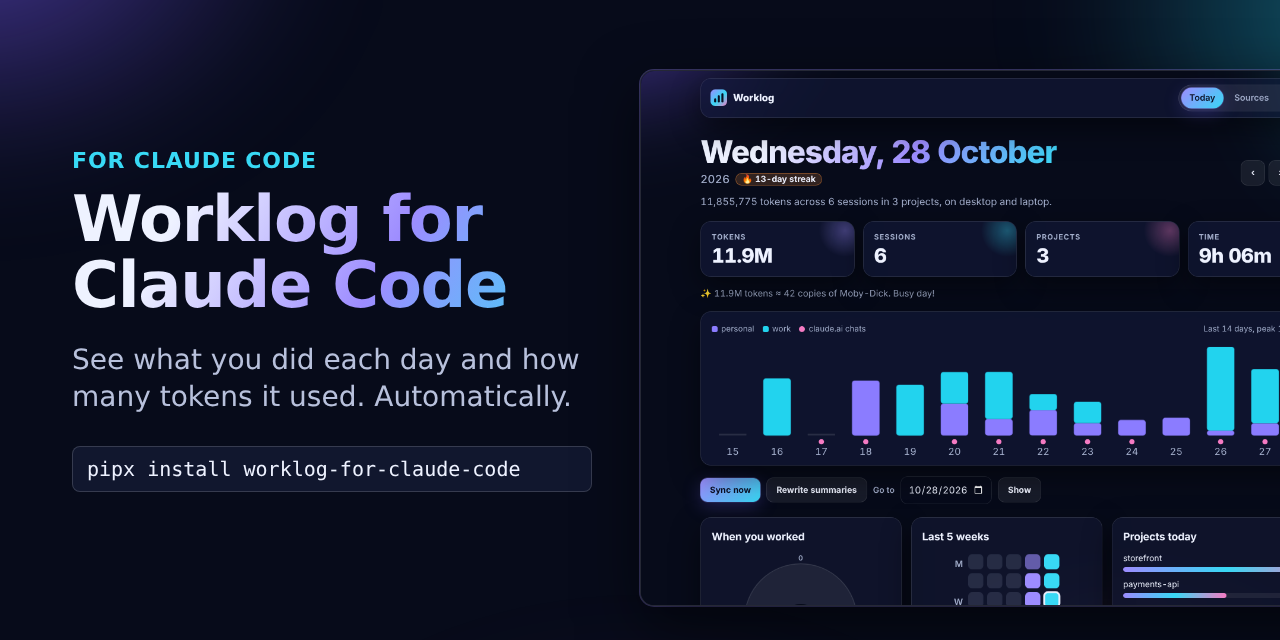
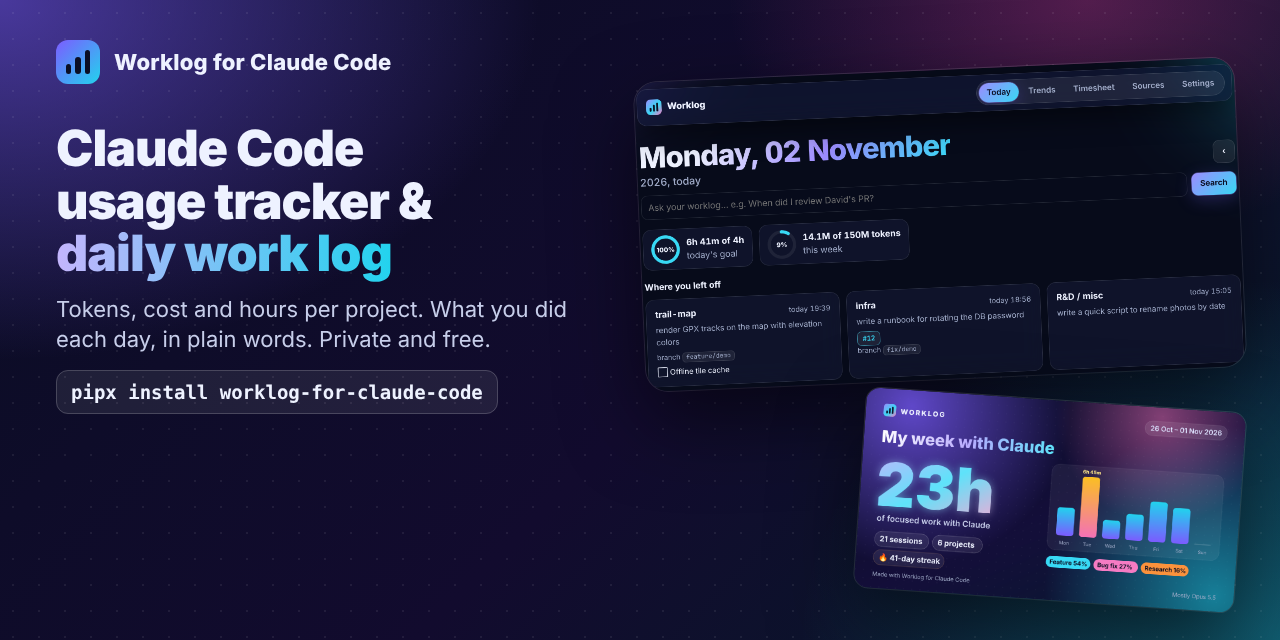
Website, search words, pinned actions and Scorecard
- site/: one-page website for GitHub Pages with title, description, Open Graph
  image, structured data (app + FAQ), sitemap and robots.txt; pages.yml
  publishes it with the screenshots from docs/images.
- README and PyPI summary say plainly what it is: a Claude Code usage tracker
  and daily work log with tokens, cost and hours per project.
- Pin every GitHub Action to a commit SHA (version in a comment).
- Add the OpenSSF Scorecard workflow, plus Scorecard and signed-release badges.
- New 1280x640 social preview image.

diff --git a/site/index.html b/site/index.html
@@ -1,0 +1,165 @@
+<!doctype html>
+<html lang="en">
+<head>
+<meta charset="utf-8">
+<meta name="viewport" content="width=device-width,initial-scale=1">
+<title>Worklog for Claude Code: usage tracker and daily work log</title>
+<meta name="description" content="Free, open-source Claude Code usage tracker: tokens, cost and hours per project, what you did each day in plain words, and a timesheet. Private by design.">
+<link rel="canonical" href="https://us-urvin.github.io/worklog-for-claude-code/">
+<meta name="robots" content="index,follow">
+<meta name="theme-color" content="#0A0D24">
+<link rel="icon" href="favicon.svg" type="image/svg+xml">
+<meta property="og:type" content="website">
+<meta property="og:site_name" content="Worklog for Claude Code">
+<meta property="og:title" content="Worklog for Claude Code: your Claude Code work, written down for you">
+<meta property="og:description" content="Free, open-source Claude Code usage tracker: tokens, cost and hours per project, daily summaries in plain words, a timesheet and trends. Runs on your computer.">
+<meta property="og:url" content="https://us-urvin.github.io/worklog-for-claude-code/">
+<meta property="og:image" content="https://us-urvin.github.io/worklog-for-claude-code/images/social-preview.png">
+<meta property="og:image:width" content="1280">
+<meta property="og:image:height" content="640">
+<meta property="og:image:alt" content="Worklog for Claude Code: a dashboard of today's Claude Code projects, tokens and hours">
+<meta name="twitter:card" content="summary_large_image">
+<meta name="twitter:title" content="Worklog for Claude Code">
+<meta name="twitter:description" content="Free Claude Code usage tracker and daily work log: tokens, cost and hours per project, in plain words.">
+<meta name="twitter:image" content="https://us-urvin.github.io/worklog-for-claude-code/images/social-preview.png">
+<script type="application/ld+json">
+{"@context":"https://schema.org","@graph":[
+{"@type":"SoftwareApplication","name":"Worklog for Claude Code","alternateName":"claude-worklog",
+ "applicationCategory":"DeveloperApplication","operatingSystem":"Linux, macOS, Windows",
+ "description":"Free, open-source Claude Code usage tracker and daily work log: tokens, cost and hours per project, plain-language summaries, a timesheet and trends, across Claude accounts and computers.",
+ "url":"https://us-urvin.github.io/worklog-for-claude-code/","downloadUrl":"https://pypi.org/project/worklog-for-claude-code/",
+ "softwareHelp":"https://github.com/us-urvin/worklog-for-claude-code/blob/main/docs/GUIDE.md",
+ "codeRepository":"https://github.com/us-urvin/worklog-for-claude-code","license":"https://opensource.org/licenses/MIT",
+ "author":{"@type":"Person","name":"Urvin","url":"https://github.com/us-urvin"},
+ "image":"https://us-urvin.github.io/worklog-for-claude-code/images/social-preview.png",
+ "offers":{"@type":"Offer","price":"0","priceCurrency":"USD"}},
+{"@type":"FAQPage","mainEntity":[
+ {"@type":"Question","name":"How do I see Claude Code token usage per project?","acceptedAnswer":{"@type":"Answer","text":"Install Worklog with pipx install worklog-for-claude-code and open its dashboard. Every project gets a card with its tokens, cost at API prices, active hours and what you did, read from Claude Code's own session logs on your computer."}},
+ {"@type":"Question","name":"Does Worklog send my code anywhere?","acceptedAnswer":{"@type":"Answer","text":"No. It never saves your files or Claude's replies. It keeps short notes (the start of your prompts, token counts, file names, commit messages) on your computer and in a private git repo you choose. Common secrets are blanked out first. AI summaries are optional and use your own Claude account."}},
+ {"@type":"Question","name":"Does it work with several Claude accounts and computers?","acceptedAnswer":{"@type":"Answer","text":"Yes. It tells accounts apart, even with one-click account switchers, and combines several computers through your private git repo."}},
+ {"@type":"Question","name":"Is Worklog for Claude Code free?","acceptedAnswer":{"@type":"Answer","text":"Yes. It is open source under the MIT licence and needs only Python 3.10 or newer and git."}},
+ {"@type":"Question","name":"How is it different from ccusage and other usage trackers?","acceptedAnswer":{"@type":"Answer","text":"Token and cost reports tell you how much you used. Worklog also writes down what you worked on, project by project, keeps a timesheet, shows where you left off, and lets you search or ask about past work. You can use it alongside other tools."}}]}]}
+</script>
+<style>
+:root{--bg:#0A0D24;--panel:rgba(255,255,255,.06);--rule:rgba(255,255,255,.14);--ink:#EEF2FF;--muted:#A3AECB;--a:#7C5CFF;--b:#22D3EE;--warm:#F59E0B}
+@media (prefers-color-scheme:light){:root{--bg:#F6F7FE;--panel:#FFFFFF;--rule:#DDE1F2;--ink:#151935;--muted:#545C7A;--a:#5B3DF5;--b:#0891B2}}
+*{box-sizing:border-box}html{scroll-behavior:smooth}
+body{margin:0;font:17px/1.6 Inter,"Segoe UI",system-ui,-apple-system,sans-serif;color:var(--ink);background:var(--bg)}
+body:before{content:"";position:fixed;inset:0;z-index:-1;background:radial-gradient(800px 500px at 0 0,color-mix(in srgb,var(--a) 35%,transparent),transparent 70%),radial-gradient(700px 500px at 100% 100%,color-mix(in srgb,var(--b) 25%,transparent),transparent 70%)}
+a{color:var(--b)}img{max-width:100%;height:auto;display:block}
+.wrap{max-width:1120px;margin:0 auto;padding:0 20px}
+header{display:flex;align-items:center;justify-content:space-between;padding:18px 0;gap:12px}
+.brand{display:flex;align-items:center;gap:10px;font-weight:800;color:var(--ink);text-decoration:none}.brand img{width:32px;height:32px}
+nav a{color:var(--muted);text-decoration:none;margin-left:18px;font-weight:600;font-size:.95rem}nav a:hover{color:var(--ink)}
+.hero>*,.grid>*,.steps>*,ul.trust>li{min-width:0}.step code{overflow-wrap:anywhere}
+.hero{display:grid;grid-template-columns:1.05fr 1fr;gap:40px;align-items:center;padding:40px 0 30px}
+h1{font-size:clamp(2.1rem,4.6vw,3.4rem);line-height:1.08;margin:0 0 16px;letter-spacing:-.02em}
+.grad{background:linear-gradient(90deg,var(--a),var(--b));-webkit-background-clip:text;background-clip:text;color:transparent}
+.lead{font-size:1.15rem;color:var(--muted);margin:0 0 22px}
+.cmd{display:flex;align-items:center;gap:10px;background:var(--panel);border:1px solid var(--rule);border-radius:14px;padding:12px 14px;font:600 .95rem ui-monospace,Menlo,Consolas,monospace;overflow-x:auto;white-space:nowrap}
+.cmd span{color:var(--muted);user-select:none}
+.btns{display:flex;flex-wrap:wrap;gap:10px;margin-top:16px}
+.btn{display:inline-block;padding:11px 18px;border-radius:12px;font-weight:700;text-decoration:none;border:1px solid var(--rule);color:var(--ink);background:var(--panel)}
+.btn.main{background:linear-gradient(135deg,var(--a),var(--b));color:#fff;border:0}
+.shot{border-radius:18px;border:1px solid var(--rule);box-shadow:0 30px 80px rgba(0,0,0,.35)}
+.badges{display:flex;flex-wrap:wrap;gap:6px;margin-top:18px}.badges img{height:20px;width:auto;display:inline}
+section{padding:44px 0}h2{font-size:clamp(1.5rem,3vw,2.1rem);margin:0 0 10px;letter-spacing:-.01em}
+.sub{color:var(--muted);margin:0 0 26px;max-width:720px}
+.grid{display:grid;grid-template-columns:repeat(2,1fr);gap:22px}
+.card{background:var(--panel);border:1px solid var(--rule);border-radius:20px;padding:22px;display:flex;flex-direction:column;gap:14px}
+.card h3{margin:0;font-size:1.2rem}.card p{margin:0;color:var(--muted)}.card img{border-radius:12px;border:1px solid var(--rule)}
+.steps{display:grid;grid-template-columns:repeat(3,1fr);gap:18px;counter-reset:s}
+.step{background:var(--panel);border:1px solid var(--rule);border-radius:18px;padding:20px}
+.step:before{counter-increment:s;content:counter(s);display:inline-grid;place-items:center;width:34px;height:34px;border-radius:10px;background:linear-gradient(135deg,var(--a),var(--b));color:#fff;font-weight:800;margin-bottom:8px}
+.step h3{margin:0 0 6px}.step p{margin:0;color:var(--muted)}.step code{font-size:.85rem}
+ul.trust{list-style:none;padding:0;margin:0;display:grid;grid-template-columns:repeat(2,1fr);gap:12px}
+ul.trust li{background:var(--panel);border:1px solid var(--rule);border-radius:14px;padding:14px 16px}
+details{background:var(--panel);border:1px solid var(--rule);border-radius:14px;padding:14px 18px;margin-bottom:10px}
+summary{font-weight:700;cursor:pointer}details p{color:var(--muted);margin:10px 0 0}
+footer{border-top:1px solid var(--rule);padding:26px 0 40px;color:var(--muted);font-size:.9rem}
+code{font-family:ui-monospace,Menlo,Consolas,monospace}
+@media (max-width:860px){.hero,.grid,ul.trust,.steps{grid-template-columns:1fr}.hero{padding-top:16px}nav{display:none}}
+</style>
+</head>
+<body>
+<div class="wrap">
+<header>
+  <a class="brand" href="./"><img src="favicon.svg" alt="" width="32" height="32">Worklog for Claude Code</a>
+  <nav><a href="#features">Features</a><a href="#how">How it works</a><a href="#privacy">Privacy</a><a href="#faq">FAQ</a><a href="https://github.com/us-urvin/worklog-for-claude-code">GitHub</a></nav>
+</header>
+
+<main>
+<div class="hero">
+  <div>
+    <h1>Claude Code usage tracker and <span class="grad">daily work log</span></h1>
+    <p class="lead">See what you did with Claude Code each day, in plain words, with <b>tokens, cost and hours per project</b>. Free, open source, and private: it runs on your computer and keeps your data in your own git repo.</p>
+    <div class="cmd"><span>$</span>pipx install worklog-for-claude-code</div>
+    <div class="btns">
+      <a class="btn main" href="https://github.com/us-urvin/worklog-for-claude-code#install-in-3-steps">Install in 3 steps</a>
+      <a class="btn" href="#try">Try the demo</a>
+      <a class="btn" href="https://github.com/us-urvin/worklog-for-claude-code">⭐ Star on GitHub</a>
+    </div>
+    <div class="badges">
+      <img src="https://img.shields.io/pypi/v/worklog-for-claude-code" alt="PyPI version" loading="lazy">
+      <img src="https://static.pepy.tech/badge/worklog-for-claude-code" alt="Downloads" loading="lazy">
+      <img src="https://img.shields.io/badge/license-MIT-blue" alt="MIT licence" loading="lazy">
+      <img src="https://img.shields.io/badge/runs%20on-Linux%20%C2%B7%20macOS%20%C2%B7%20Windows-informational" alt="Runs on Linux, macOS and Windows" loading="lazy">
+    </div>
+  </div>
+  <img class="shot" src="images/day.png" width="1280" height="900" alt="Worklog dashboard: today's Claude Code tokens, sessions, projects and hours, with a 14-day chart">
+</div>
+
+<section id="features" aria-labelledby="f-h">
+  <h2 id="f-h">Everything you did with Claude Code, without writing it down</h2>
+  <p class="sub">Worklog reads Claude Code's own session logs on your computer and turns them into a work log you can read, search and share.</p>
+  <div class="grid">
+    <article class="card"><h3>✍ Every project, in plain words</h3><p>One card per project with a short summary, the kind of work, pull requests and tasks. Claude writes the summary with your own account, or skip AI and keep it fully local.</p><img src="images/card.png" width="688" height="576" alt="A project card with a plain-language summary, PR links and a task list" loading="lazy"></article>
+    <article class="card"><h3>📊 Token usage and cost per project</h3><p>Tokens by account and model, active hours, and the cost at API prices for every project and day. See which work uses your Pro or Max limits.</p><img src="images/trends.png" width="1112" height="646" alt="Trends: hours, sessions, tokens and cost compared with last week" loading="lazy"></article>
+    <article class="card"><h3>🔎 Ask your worklog</h3><p>"When did I review PR 505?" Search forgives typos and finds the day. Tick <b>Ask Claude</b> for a short written answer with links.</p><img src="images/ask.png" width="1112" height="567" alt="Ask your worklog: a question answered from saved notes" loading="lazy"></article>
+    <article class="card"><h3>🧾 A timesheet, ready for Excel</h3><p>Hours, kind of work and one line per project and day. Download it as Excel or CSV for your client or manager.</p><img src="images/timesheet.png" width="1112" height="801" alt="Timesheet with hours and a summary line per day and project" loading="lazy"></article>
+    <article class="card"><h3>📍 Where you left off</h3><p>Your last projects, open tasks, branch, PRs and tickets at the top of the page, so mornings start fast.</p><img src="images/leaveoff.png" width="1112" height="317" alt="Where you left off: last projects with open tasks and branches" loading="lazy"></article>
+    <article class="card"><h3>🖼 Share your week</h3><p>A card for a day, week, month or year, wide or square. One click opens LinkedIn or X with the post written. Totals only, never prompts or files.</p><img src="images/share-card.jpg" width="1200" height="630" alt="A share card: 23 hours of focused work with Claude in a week, with a bar chart" loading="lazy"></article>
+  </div>
+</section>
+
+<section id="how" aria-labelledby="h-h">
+  <h2 id="h-h">How it works</h2>
+  <p class="sub">You need Python 3.10+, git and Claude Code. Linux, macOS and Windows.</p>
+  <div class="steps">
+    <div class="step"><h3>Install</h3><p><code>pipx install worklog-for-claude-code</code></p></div>
+    <div class="step"><h3>Make a private folder for your log</h3><p><code>git init ~/claude-worklog-data</code><br><code>claude-worklog install-service</code></p></div>
+    <div class="step"><h3>Open the dashboard</h3><p><a href="http://localhost:8765">localhost:8765</a>, fill in the short form, then use Claude Code as usual. A checklist shows anything still missing.</p></div>
+  </div>
+  <p id="try" style="margin-top:22px"><b>Just looking?</b> Try it on made-up data, with nothing installed: <code>pipx run --spec worklog-for-claude-code claude-worklog demo</code>, then open <code>localhost:8766</code>.</p>
+</section>
+
+<section id="privacy" aria-labelledby="p-h">
+  <h2 id="p-h">Private by design</h2>
+  <ul class="trust">
+    <li>🔒 <b>Never your code.</b> Only short notes: the start of your prompts, token counts, file names and commit messages. Never your files or Claude's replies.</li>
+    <li>🧹 <b>Secrets blanked out</b> before saving: API keys, tokens, passwords, e-mails.</li>
+    <li>🏠 <b>Your computer, your git repo.</b> No telemetry, no account, no server run by this project.</li>
+    <li>✅ <b>Signed releases.</b> Every release is built and signed by GitHub and tested on three systems. <a href="https://github.com/us-urvin/worklog-for-claude-code/blob/main/SECURITY.md#verify-a-release">Verify a release</a>.</li>
+    <li>📏 <b>A personal log, not a performance score.</b> Hours are your active time with Claude, not a measure of your output.</li>
+    <li>🧩 <b>No dependencies</b> outside Python's standard library, and the full source is on GitHub.</li>
+  </ul>
+</section>
+
+<section id="faq" aria-labelledby="q-h">
+  <h2 id="q-h">Questions</h2>
+  <details><summary>How do I see Claude Code token usage per project?</summary><p>Install Worklog and open its dashboard. Every project gets a card with its tokens, cost at API prices, active hours and what you did, read from Claude Code's own session logs on your computer.</p></details>
+  <details><summary>Does Worklog send my code anywhere?</summary><p>No. It never saves your files or Claude's replies. Notes stay on your computer and in a private git repo you choose. AI summaries are optional and use your own Claude account; turn them off to stay fully offline.</p></details>
+  <details><summary>Does it work with several Claude accounts and computers?</summary><p>Yes. It tells accounts apart, even with one-click account switchers, and combines several computers through your private git repo.</p></details>
+  <details><summary>Can I see it on my phone?</summary><p>Yes: turn on the phone summary on one computer and open your data repo's <code>phone</code> folder in the GitHub app. It stays private.</p></details>
+  <details><summary>How is it different from ccusage and other usage trackers?</summary><p>Token and cost reports tell you how much you used. Worklog also writes down what you worked on, project by project, keeps a timesheet, shows where you left off, and lets you search or ask about past work. You can use it alongside other tools.</p></details>
+  <details><summary>Is it free?</summary><p>Yes. It's open source under the MIT licence.</p></details>
+</section>
+</main>
+
+<footer>
+  <p><a href="https://github.com/us-urvin/worklog-for-claude-code">GitHub</a> · <a href="https://pypi.org/project/worklog-for-claude-code/">PyPI</a> · <a href="https://github.com/us-urvin/worklog-for-claude-code/blob/main/docs/GUIDE.md">Guide</a> · <a href="https://github.com/us-urvin/worklog-for-claude-code/blob/main/CHANGELOG.md">Changelog</a> · <a href="https://github.com/us-urvin/worklog-for-claude-code/issues/new/choose">Report a bug</a></p>
+  <p>Made by <a href="https://github.com/us-urvin">Urvin</a>. MIT licence. Not affiliated with or endorsed by Anthropic. Claude and Claude Code are trademarks of Anthropic.</p>
+</footer>
+</div>
+</body>
+</html>

diff --git a/README.md b/README.md
@@ -2,11 +2,17 @@
 
 **Your Claude Code work, written down for you: what you did each day, how long it took, and what it used.**
 
+A free, open-source **Claude Code usage tracker** and **daily work log**: tokens, cost and hours **per project**, a timesheet, and plain-language summaries of what you did, across all your Claude accounts and computers. It runs on your computer and keeps your data in your own private git repo.
+
 [![Downloads](https://static.pepy.tech/badge/worklog-for-claude-code)](https://pepy.tech/project/worklog-for-claude-code)
 [![PyPI](https://img.shields.io/pypi/v/worklog-for-claude-code)](https://pypi.org/project/worklog-for-claude-code/)
 [![GitHub stars](https://img.shields.io/github/stars/us-urvin/worklog-for-claude-code?style=flat)](https://github.com/us-urvin/worklog-for-claude-code/stargazers)
 [![CI](https://github.com/us-urvin/worklog-for-claude-code/actions/workflows/ci.yml/badge.svg)](https://github.com/us-urvin/worklog-for-claude-code/actions/workflows/ci.yml)
 [![License: MIT](https://img.shields.io/badge/license-MIT-blue)](https://github.com/us-urvin/worklog-for-claude-code/blob/main/LICENSE)
+[![OpenSSF Scorecard](https://api.scorecard.dev/projects/github.com/us-urvin/worklog-for-claude-code/badge)](https://scorecard.dev/viewer/?uri=github.com/us-urvin/worklog-for-claude-code)
+[![Signed releases](https://img.shields.io/badge/releases-signed%20%26%20verified-brightgreen)](https://github.com/us-urvin/worklog-for-claude-code/blob/main/SECURITY.md#verify-a-release)
+
+🌐 **[Website](https://us-urvin.github.io/worklog-for-claude-code/)** · 📦 **[PyPI](https://pypi.org/project/worklog-for-claude-code/)**
 
 ![A tour of Worklog: today, project summaries, editing a project, trends, ask, timesheet and a share card](https://raw.githubusercontent.com/us-urvin/worklog-for-claude-code/main/docs/images/demo.gif)
 

diff --git a/CHANGELOG.md b/CHANGELOG.md
@@ -22,6 +22,16 @@ Trust release: no new features, more proof that the package is what it says.
   security headers and runs only its own scripts, and HTML or JavaScript hidden in project names, prompts, file
   names or searches is shown as text, never run.
 - README: "a personal log, not a performance score", and a link to verify releases.
+- **Website** at https://us-urvin.github.io/worklog-for-claude-code/ (published from `site/` by GitHub Pages), with
+  proper search-engine details: title, description, preview image, structured data and a sitemap.
+- **OpenSSF Scorecard**: an independent weekly check of the repository's security practices, shown as a badge.
+- README and PyPI summary now say plainly what it is: a Claude Code usage tracker and daily work log, with tokens,
+  cost and hours per project.
+
+### Changed
+- Every GitHub Action in CI, release and the website is pinned to an exact commit (with its version in a comment),
+  so a changed or compromised action can't slip into a release. Dependabot keeps the pins up to date.
+- New preview image for links to the repository and website.
 
 ## [0.5.1] - 2026-11-02
 
